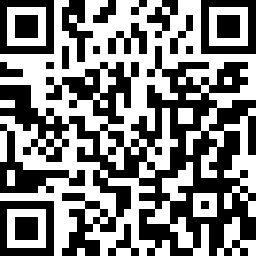
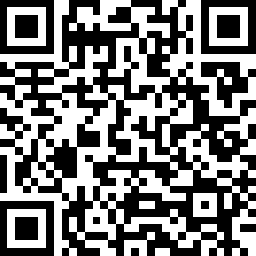
MOD

diff --git a/client/views/web/mt4.html b/client/views/web/mt4.html
@@ -38,7 +38,7 @@
                                 <a class="mt4__info" href="https://static.tigerwitfx.com/downloads/static/MetaTrader%204.apk" target="_blank">
                                     <img src="/images/web/mt4-and-s.png">
                                     <span><%= lang.text("mt4-5")%></span>
-                                    <span class="qr_code"><img src="/images/web/android-20190531-demo.png"></span>
+                                    <span class="qr_code"><img src="/images/web/android-20190530-demo.png"></span>
                                 </a>
                             </h5>
                         </div>

diff --git a/client/scripts/web/m_blank.js b/client/scripts/web/m_blank.js
@@ -1,5 +1,6 @@
 ;$(document).ready(function () {
     var system = getQueryString('system');
+    var userAgent = navigator.userAgent;
     if (system === 'download_mt4') {
         if(/MicroMessenger/gi.test(userAgent)) {
             // 微信浏览器中
@@ -16,7 +17,6 @@
             source: JSON.stringify(search_source)
         }).then(function () {
             if (isAndriod() || isWindows()) {
-                var userAgent = navigator.userAgent;
                 if(/MicroMessenger/gi.test(userAgent)) {
                     // 微信浏览器中
                     $(".weixinTip").css("display", "block");

diff --git a/client/styles/web/_mt4.scss b/client/styles/web/_mt4.scss
@@ -45,9 +45,11 @@
             left: 22px;
             width: 200px;
             height: 200px;
+            padding: 5px;
+            background-color: #fff;
 
             img {
-                width: 200px;
+                width: 190px;
             }
         }
     }
